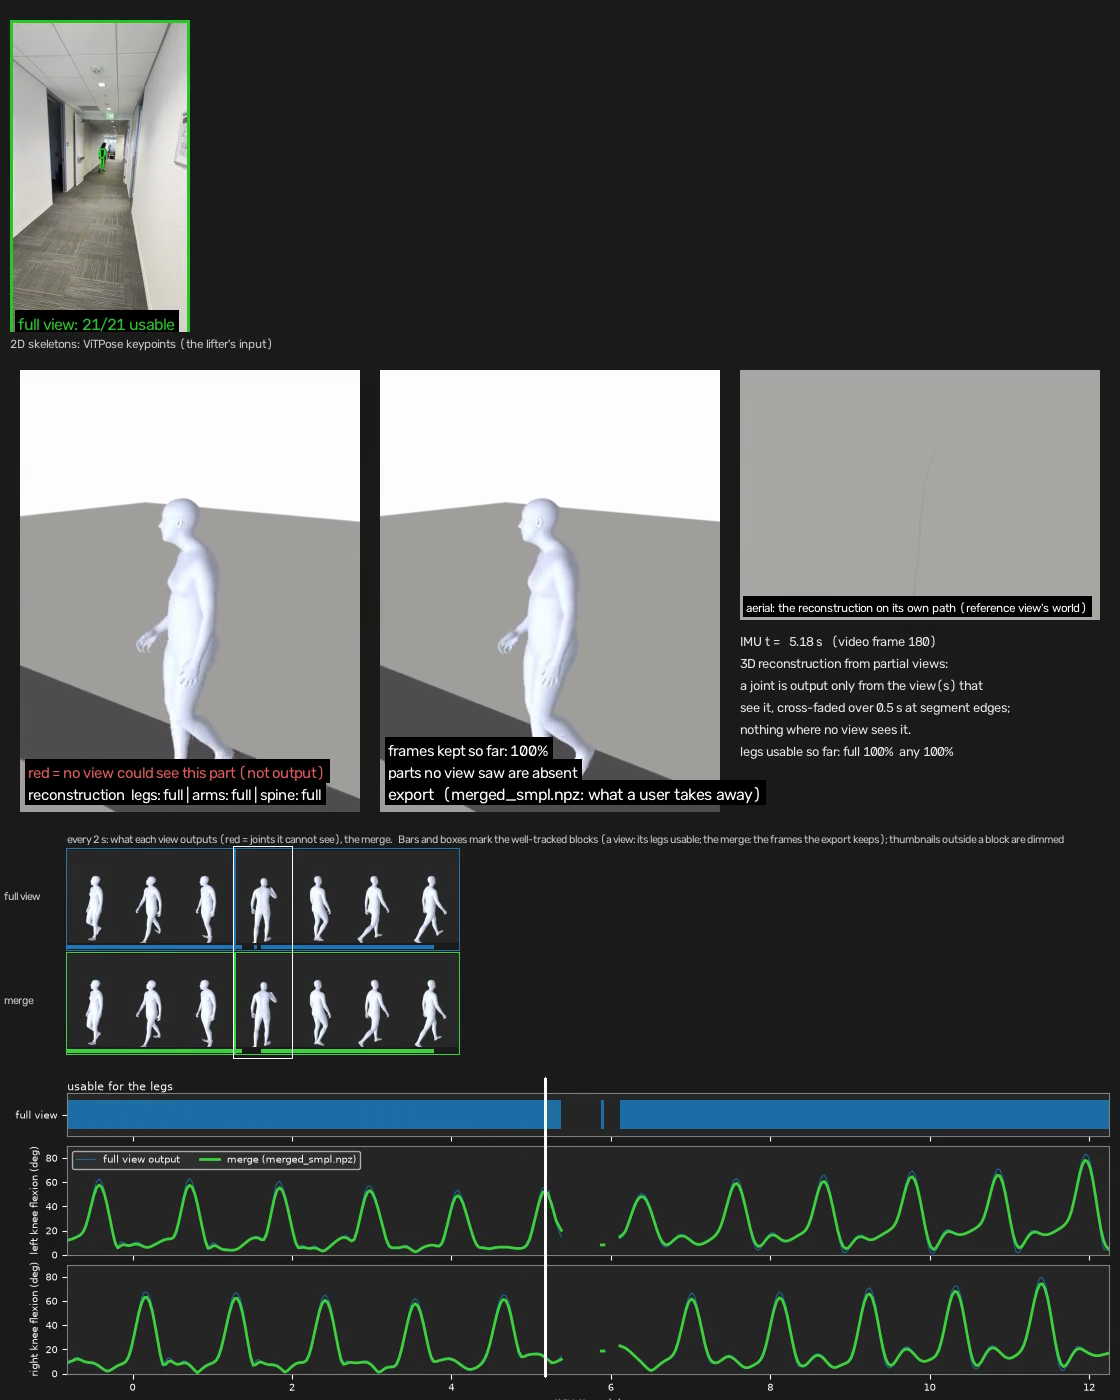
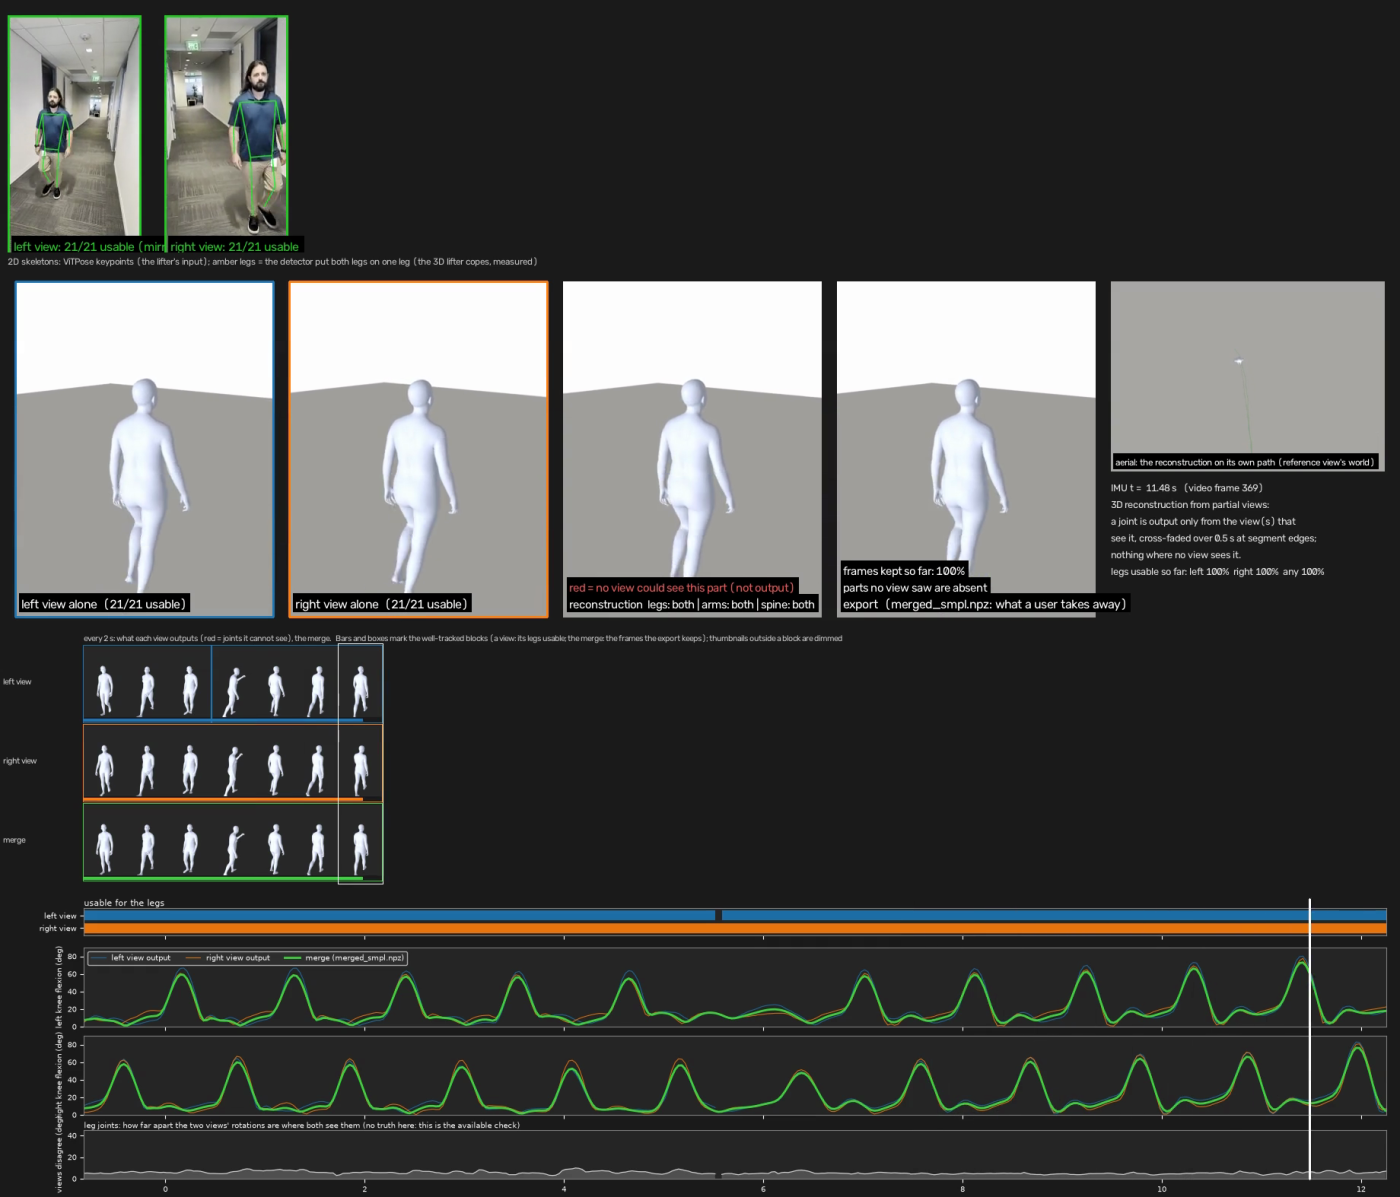
Lifts after the layout corrections: TUG (hc142), hurried pace with the room-wide side view, the truncating composite
- README / design 2.10: Sub 005 export 94 %, legs 14.3 deg, knee RMSE 8.1, root 12.8, two-view 7.6; Sub 006 export
  100 %, legs 12.0, knee RMSE 10.5, root 8.8, two-view 10.5; OWN02 mirror check 44 vs 8 deg, two-view legs 5.4 deg,
  export 100 %. The no-truth figure now shows the two-view composite.
- Limit recorded: ViTPose reports confident ankles ~200 px inside a panel whose bottom cuts the feet, so the
  usable-joint rule passes a cut-off foot; the agreement factor is the remaining guard (geometric test = open item).

diff --git a/README.md b/README.md
@@ -502,21 +502,19 @@ merged like the others:
 
 | session | export | legs (median) | knee-flexion RMSE | root | two views' leg disagreement |
 |---|---|---|---|---|---|
-| TUG (HC903, first render) | 97 % | 26.1 deg (see text) | 9.3 deg | 8.4 deg | 9.3 deg |
-| hurried pace (HC904) | 82 % | 14.0 deg | 13.8 deg | 7.8 deg | 14.0 deg |
+| TUG (HC903, hc142) | 94 % | 14.3 deg | 8.1 deg | 12.8 deg | 7.6 deg |
+| hurried pace (HC904, room-wide side view) | 100 % | 12.0 deg | 10.5 deg | 8.8 deg | 10.5 deg |
 | mat walk (HC905) | 100 % | 9.6 deg | 6.7 deg | 6.2 deg | 8.2 deg |
 
-The TUG row says something about the truth rather than the lift: the two views agree with each other on the legs
-to 9 deg and on the ankles to 10 deg, yet both sit 26 deg from the IK sequence the walker was rendered from. That
-sequence (hc100's TUG) has its left ankle 163 deg off in the inertial fit, a visibly wrong foot in the rendered
-truth, so the sample has since been re-rendered with hc142's TUG, whose fit passes the ankle check (median ankle
-angles 10 deg, knees to 85 deg when seated); its CPU stages pass as before (sync 3.004 s against 3.0 planted,
-validated by the light; selection r 0.78 in both views), its lift and numbers follow the next GPU run, and until
-then the row stands for the first render, where the knee-flexion RMSE and the two-view agreement are the usable
-numbers. The
+The TUG walker is hc142: the first render used hc100's TUG, whose inertial fit carries its left ankle 163 deg off (a
+visibly wrong foot in the rendered truth, and 26 deg of "error" that belonged to the truth), while hc142's fit
+passes the ankle check (median ankle angles 10 deg, knees to 85 deg when seated). The TUG's root error is the
+largest of the set (12.8 deg): the seated and turning phases, where the lifter's gravity frame is least
+constrained. Its sync lands at 3.004 s against 3.0 planted, validated by the light. The
 hurried walk is the hard case
-it was built to be: the side view holds the walker for 42 % of the recording in five pieces, the two views share
-130 frames, and the merge exports 82 %.
+it was built to be in the along view, which sees feet and mat with the head cut when close (legs usable 52 % of
+its frames); the side view is laid out like the real session's and holds the walker throughout (legs usable
+100 %), so the merge exports every frame and the two views share 569 frames with their legs usable in both.
 
 ### When there is no truth: a real clip
 
@@ -528,23 +526,30 @@ mode, lifted on a T4 like the rest:
 
 ![demo without a truth](docs/figures/demo_no_truth.png)
 
-*One frame of `wgvp demo` on the bundled phone clip (OWN01, one view: 393 frames, 95 % exported, two runs with a
-0.7-s gap where the walker turned at the far end). With one view the reconstruction and the view coincide, so the
-middle row is reconstruction, export and the path from above; the timelines carry the view's output and the merge.
-On real video the close-ups show a floor and no mat (the mat is drawn only when the room is known, i.e. for a
-rendered truth), and a leg pair the 2D detector put on one leg is drawn in amber: on the rendered sessions that
-happens on 0.1-23 % of a view's frames (a side-on walker's legs cross once a stride) and the lifter's leg error on
-those frames is 8-19 deg against 9-25 elsewhere, so the merge does not weight them down.*
+*One frame of `wgvp demo` on the two-view composite of the bundled phone clip (OWN02, 393 frames, 100 %
+exported): the left panel is marked as the mirror image it is and shown reflected back, each view's own lift
+stands beside the reconstruction and the export, the path from above replaces the aerial truth, and the bottom
+chart is the two views' leg disagreement (5.4 deg median) in place of an error against a truth. On real video the
+close-ups show a floor and no mat (the mat is drawn only when the room is known, i.e. for a rendered truth), and a
+leg pair the 2D detector put on one leg is drawn in amber: on the rendered sessions that happens on 0.1-23 % of a
+view's frames (a side-on walker's legs cross once a stride) and the lifter's leg error on those frames is 8-19 deg
+against 9-25 elsewhere, so the merge does not weight them down. The single-view clip (OWN01: 95 % exported, two
+runs with a 0.7-s gap where the walker turned at the far end) renders the same way with one view.*
 
 The two-view composite of the same clip (OWN02) is built the way a careless second camera would be: the left
 panel is the clip zoomed in a little, the right panel the clip **mirrored** and zoomed in hard (1.16x and 1.64x,
 different letterboxing; head and feet leave the right panel when the walker is close), which makes the right
-panel's left leg the walker's right leg. On the lift of an earlier, milder composite the merge's
-mirror check reads the knees 43 deg apart as lifted and 7 deg apart with the sides swapped, reflects the right
-view back, and the two "views" then agree: root residual 14 to 7 deg, pelvis offset 0.33 to 0.21 m, their knee
-curves on top of each other. It is still one camera (the two panels carry the same information), so the synthetic
-sessions above remain the test of the merge itself; what this clip tests is the panel detector on two zoom levels,
-the per-view scale, the mirror detection and the no-truth layout.
+panel's left leg the walker's right leg. On its lift the merge's mirror check reads the knees 44 deg apart as
+lifted and 8 deg apart with the sides swapped, reflects that view back, and the two "views" then agree on the legs
+to 5.4 deg with their knee curves on top of each other (root residual 8 deg; the pelvis positions still differ by
+0.54 m, the depth estimate being what two zoom levels disagree about). It is still one camera (the two panels
+carry the same information), so the synthetic sessions above remain the test of the merge itself; what this clip
+tests is the panel detector on two zoom levels, the per-view scale, the mirror detection, truncation and the
+no-truth layout. The truncation found a limit worth knowing: on the frames where the walker's feet are below the
+hard-zoomed panel, ViTPose still reports ankles with confidence 0.9 some 200 px inside the panel, so the
+usable-joint rule (confident and inside the panel) does not notice, and the lifter extrapolates the legs there;
+the two views' agreement factor is what discounts those frames. A geometric truncation test (the body's box
+against the panel edge) is the open item.
 
 ## Outputs
 

diff --git a/docs/design.md b/docs/design.md
@@ -573,6 +573,24 @@ walker complete most of the time), so the hurried-pace sample's side camera was 
 got a harder zoom on its mirrored panel (the middle 50 x 55 % of the clip, 1.64x) so that head and feet are cut
 when the walker is close, as in the along-walkway view of a real session.
 
+**The lifts after those corrections (T4, 29 + 15 min).** Sub 005 (TUG, hc142): sync 3.004 s, export 94 % of 1,609
+frames in 4 runs, legs 14.3 deg median (24 % over 20), knee-flexion RMSE 8.1, root 12.8 (the seated and turning
+phases), two-view leg agreement 7.6 deg on 865 shared frames: the 26-deg "error" of the first render was the
+truth's. Sub 006 (hurried pace, room-wide side view): sync 2.992 s; the side view holds the walker for all 1,101
+frames with every leg joint usable, the along view has its legs usable 52 % of the time; export 100 %, legs
+12.0 deg (15 % over 20), knee RMSE 10.5, root 8.8, two-view legs 10.5 deg on 569 shared frames (82 % / 14.0 / 13.8
+/ 7.8 with the narrow side view). The bundled composite (OWN02, zoomed 1.16x | mirrored 1.64x): panels within 2 px,
+sync 0.817 s, both panels selected (r 0.85 / 0.77); the merge took the zoomed mirrored panel as the reference,
+flagged the other as its mirror image (knees 44.2 deg as lifted vs 7.8 swapped on 216 swing frames), and the two
+agree on the legs to 5.4 deg with 100 % exported; OWN01 95 %. One limit surfaced: on the frames where the walker's
+feet lie below the hard-zoomed panel, ViTPose reports both ankles with confidence 0.9 about 200 px INSIDE the
+panel (and the tracker's `edge_truncated` stays False), so the usable-joint rule passes a cut-off foot and the
+lifter extrapolates it; the two views' agreement factor is the guard that remains, and a geometric truncation test
+(the body's box against the panel edge, or the limb's expected extent) is the open item. Note also that
+`pose_agreement_<a>_<b>.npz` from the reconcile stage compares the views AS LIFTED (before the merge's reflection),
+so on a mirrored pair it reads 20-40 deg while the merge's own agreement is 5 deg; the demo's chart uses the
+merge's reflected bodies.
+
 ## 3. What has not been tested on real clinic recordings
 
 * The real seam / letterbox geometry was tested only on a video synthesised from one screenshot (static scene with
